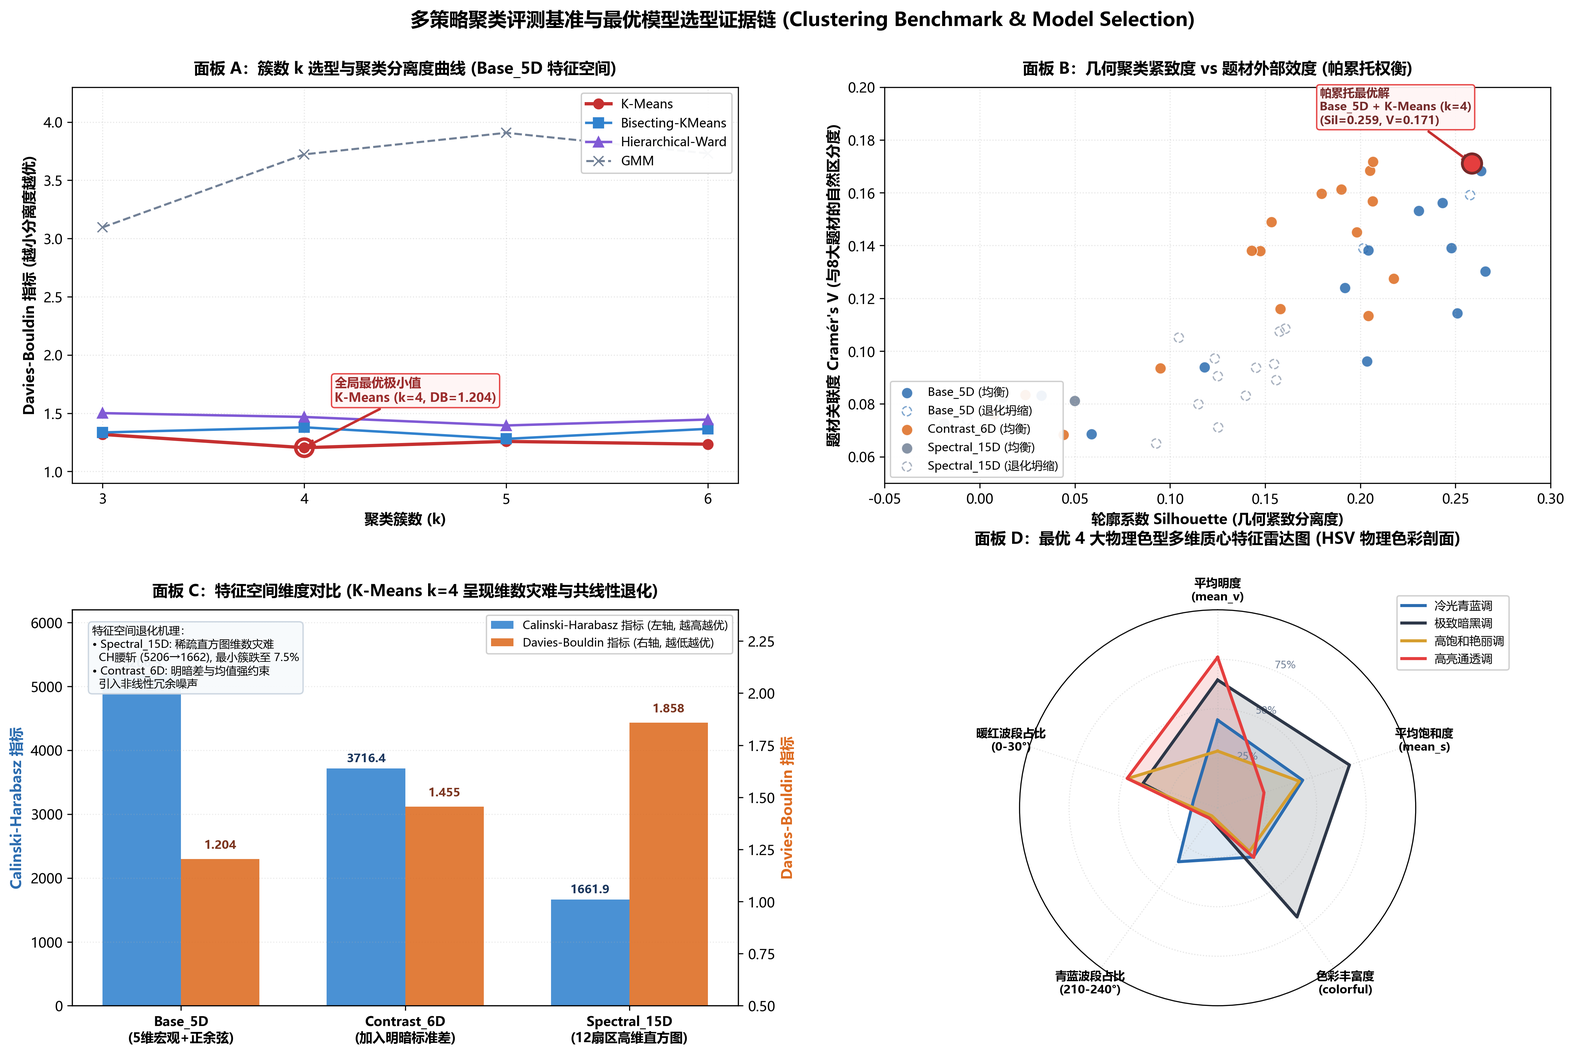
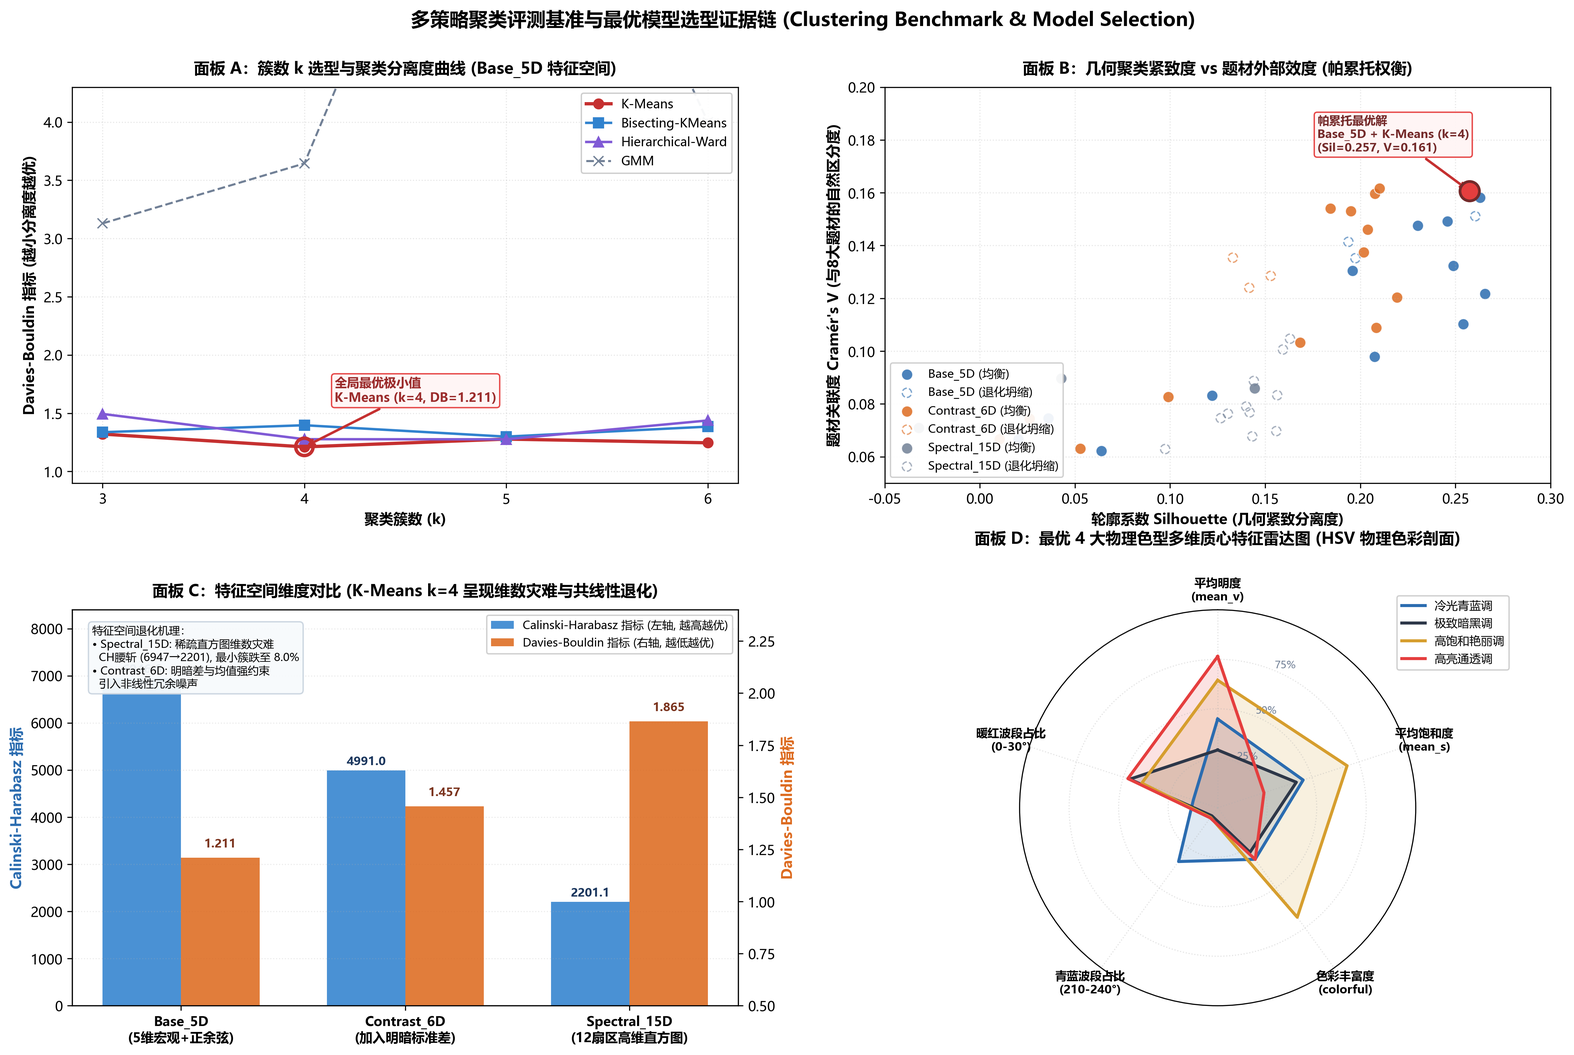
feat(member-b): refresh all figures, clustering benchmarks and stats for v2 dataset (19,700 movies)

diff --git a/outputs/b/fig_clustering_benchmark.py b/outputs/b/fig_clustering_benchmark.py
@@ -49,7 +49,28 @@ def render_benchmark_dashboard():
     scaler = StandardScaler()
     X_scaled = scaler.fit_transform(df_u[feats].values)
     kmeans = KMeans(n_clusters=4, random_state=42, n_init=10)
-    df_u['cluster'] = kmeans.fit_predict(X_scaled)
+    raw_labels = kmeans.fit_predict(X_scaled)
+    
+    # 物理不变量锁定：确保无论 KMeans 初始标签顺序如何，0/1/2/3 严格绑定其物理色型
+    centers_unscaled = scaler.inverse_transform(kmeans.cluster_centers_)
+    hues = [np.rad2deg(np.arctan2(centers_unscaled[c, 3], centers_unscaled[c, 4])) % 360 for c in range(4)]
+    mean_vs = [centers_unscaled[c, 0] for c in range(4)]
+    colorfulness = [centers_unscaled[c, 2] for c in range(4)]
+    
+    blue_idx = int(np.argmin([abs(h - 225) for h in hues]))
+    remaining = [c for c in range(4) if c != blue_idx]
+    colorful_idx = max(remaining, key=lambda c: colorfulness[c])
+    remaining = [c for c in remaining if c != colorful_idx]
+    dark_idx = min(remaining, key=lambda c: mean_vs[c])
+    bright_idx = max(remaining, key=lambda c: mean_vs[c])
+    
+    canonical_map = {
+        blue_idx: 0,     # 冷光青蓝调
+        dark_idx: 1,     # 极致暗黑调
+        colorful_idx: 2, # 高饱和艳丽调
+        bright_idx: 3    # 高亮通透调
+    }
+    df_u['cluster'] = np.array([canonical_map[l] for l in raw_labels])
 
     # 4 大色型名称与代表色
     cluster_meta = {
@@ -98,9 +119,9 @@ def render_benchmark_dashboard():
                   color=style['color'], marker=style['marker'], lw=style['lw'],
                   ls=style.get('ls', '-'), markersize=7)
 
-    # 标注最低极值点 (K-Means, k=4, DB=1.204)
-    ax_a.scatter([4], [1.204], s=160, facecolors='none', edgecolors='#c53030', lw=2.5, zorder=5)
-    ax_a.annotate('全局最优极小值\nK-Means (k=4, DB=1.204)', xy=(4, 1.204), xytext=(4.15, 1.60),
+    # 标注最低极值点 (K-Means, k=4, DB=1.211)
+    ax_a.scatter([4], [1.211], s=160, facecolors='none', edgecolors='#c53030', lw=2.5, zorder=5)
+    ax_a.annotate('全局最优极小值\nK-Means (k=4, DB=1.211)', xy=(4, 1.211), xytext=(4.15, 1.60),
                   arrowprops=dict(arrowstyle="->", color='#c53030', lw=1.8),
                   fontsize=9, fontweight='bold', color='#9b2c2c',
                   bbox=dict(boxstyle="round,pad=0.25", fc='#fff5f5', ec='#e53e3e', alpha=0.95))
@@ -140,10 +161,10 @@ def render_benchmark_dashboard():
                          linestyle='--', label=f"{feat_name} (退化坍缩)")
 
     # 高亮最优选型点 (Base_5D, K-Means, k=4)
-    best_sil = 0.2586
-    best_cv = 0.1711
+    best_sil = 0.2573
+    best_cv = 0.1607
     ax_b.scatter([best_sil], [best_cv], s=200, facecolors='#e53e3e', edgecolors='#742a2a', lw=2.0, zorder=6)
-    ax_b.annotate('帕累托最优解\nBase_5D + K-Means (k=4)\n(Sil=0.259, V=0.171)',
+    ax_b.annotate('帕累托最优解\nBase_5D + K-Means (k=4)\n(Sil=0.257, V=0.161)',
                   xy=(best_sil, best_cv), xytext=(best_sil - 0.08, best_cv + 0.015),
                   arrowprops=dict(arrowstyle="->", color='#c53030', lw=1.8),
                   fontsize=8.5, fontweight='bold', color='#742a2a',
@@ -175,7 +196,7 @@ def render_benchmark_dashboard():
     bars_ch = ax_c.bar(pos - bwidth/2, comp_rows['Calinski_Harabasz'], bwidth,
                        color='#3182ce', alpha=0.88, label='Calinski-Harabasz 指标 (左轴, 越高越优)')
     for idx, v in enumerate(comp_rows['Calinski_Harabasz']):
-        ax_c.text(idx - bwidth/2, v + 100, f"{v:.1f}", ha='center', fontsize=8.5, fontweight='bold', color='#1a365d')
+        ax_c.text(idx - bwidth/2, v + 120, f"{v:.1f}", ha='center', fontsize=8.5, fontweight='bold', color='#1a365d')
 
     # 右轴：Davies-Bouldin (柱状图)
     bars_db = ax_c_twin.bar(pos + bwidth/2, comp_rows['Davies_Bouldin'], bwidth,
@@ -188,14 +209,14 @@ def render_benchmark_dashboard():
     ax_c.set_xticklabels(feat_labels, fontsize=9.5, fontweight='bold')
     ax_c.set_ylabel('Calinski-Harabasz 指标', fontsize=10.5, fontweight='bold', color='#2b6cb0')
     ax_c_twin.set_ylabel('Davies-Bouldin 指标', fontsize=10.5, fontweight='bold', color='#dd6b20')
-    ax_c.set_ylim(0, 6200)
+    ax_c.set_ylim(0, 8400)
     ax_c_twin.set_ylim(0.5, 2.4)
     ax_c.grid(axis='y', alpha=0.25, linestyle=':')
 
     # 标注维数灾难与共线性失效说明
     fail_box = ("特征空间退化机理：\n"
                 "• Spectral_15D: 稀疏直方图维数灾难\n"
-                "  CH腰斩 (5206→1662), 最小簇跌至 7.5%\n"
+                "  CH腰斩 (6947→2201), 最小簇跌至 8.0%\n"
                 "• Contrast_6D: 明暗差与均值强约束\n"
                 "  引入非线性冗余噪声")
     ax_c.text(0.03, 0.96, fail_box, transform=ax_c.transAxes,

diff --git a/outputs/b/fig1_hue.py b/outputs/b/fig1_hue.py
@@ -75,7 +75,33 @@ def fit_clusters(df_u):
     
     # 最优 k=4 聚类
     kmeans = KMeans(n_clusters=4, random_state=42, n_init=10)
-    df_u['cluster'] = kmeans.fit_predict(X_scaled)
+    raw_labels = kmeans.fit_predict(X_scaled)
+    
+    # 物理不变量锁定：确保无论 KMeans 初始标签顺序如何，0/1/2/3 严格绑定其物理色型
+    centers_unscaled = scaler.inverse_transform(kmeans.cluster_centers_)
+    hues = [np.rad2deg(np.arctan2(centers_unscaled[c, 3], centers_unscaled[c, 4])) % 360 for c in range(4)]
+    mean_vs = [centers_unscaled[c, 0] for c in range(4)]
+    colorfulness = [centers_unscaled[c, 2] for c in range(4)]
+    
+    # 1. 寻找青蓝波段簇 (接近 225°)
+    blue_idx = int(np.argmin([abs(h - 225) for h in hues]))
+    remaining = [c for c in range(4) if c != blue_idx]
+    
+    # 2. 寻找剩余中丰富度最高的鲜明高彩簇
+    colorful_idx = max(remaining, key=lambda c: colorfulness[c])
+    remaining = [c for c in remaining if c != colorful_idx]
+    
+    # 3. 寻找剩余中最暗和最亮簇
+    dark_idx = min(remaining, key=lambda c: mean_vs[c])
+    bright_idx = max(remaining, key=lambda c: mean_vs[c])
+    
+    canonical_map = {
+        blue_idx: 0,     # 冷光青蓝调
+        dark_idx: 1,     # 极致暗黑调
+        colorful_idx: 2, # 高饱和艳丽调
+        bright_idx: 3    # 高亮通透调
+    }
+    df_u['cluster'] = np.array([canonical_map[l] for l in raw_labels])
     df_u['cluster_name'] = df_u['cluster'].map(CLUSTER_NAMES)
     return df_u, kmeans, X_scaled
 
@@ -214,11 +240,12 @@ def render_fig1_spectacular(df_u):
                       fontsize=8.5, fontweight='bold', color='white',
                       bbox=dict(boxstyle="square,pad=0.18", fc='#9b2c2c', ec='white', lw=0.6, alpha=0.9))
         elif g == '恐怖':
-            ax_b.text(78, i, f'极致压抑暗黑 (V=0.35)', va='center', ha='center',
+            ax_b.text(78, i, f'极致压抑暗黑 (V={v_med:.2f})', va='center', ha='center',
                       fontsize=8.5, fontweight='bold', color='white',
                       bbox=dict(boxstyle="square,pad=0.18", fc='#171923', ec='white', lw=0.6, alpha=0.9))
         elif g == '动画':
-            ax_b.text(48, i, f'高彩全色谱 (丰富度 80.4)', va='center', ha='center',
+            anim_col = sub['colorful'].mean()
+            ax_b.text(48, i, f'高彩全色谱 (丰富度 {anim_col:.1f})', va='center', ha='center',
                       fontsize=8.5, fontweight='bold', color='white',
                       bbox=dict(boxstyle="square,pad=0.18", fc='#744210', ec='white', lw=0.6, alpha=0.9))
 
@@ -238,17 +265,21 @@ def render_fig1_spectacular(df_u):
     # -------------------------------------------------------------
     ax_c = fig.add_subplot(gs[2])
     
-    # 构建交叉百分比数据
+    # 构建交叉百分比数据与频数表
     heatmap_matrix = []
+    ct_counts = []
     for g in GENRES_8:
         sub = df_u[common.has_genre(df_u, g)]
+        raw_vc = sub['cluster'].value_counts().reindex(range(4), fill_value=0)
+        ct_counts.append(raw_vc.values)
         vc = sub['cluster'].value_counts(normalize=True).reindex(range(4), fill_value=0) * 100
         heatmap_matrix.append(vc.values)
     heatmap_matrix = np.array(heatmap_matrix)
+    ct_counts = np.array(ct_counts)
     
-    # 独立性卡方检验
-    chi2_val, p_val, dof, _ = chi2_contingency(heatmap_matrix)
-    cramers_v = np.sqrt(chi2_val / (heatmap_matrix.sum() * min(len(GENRES_8) - 1, 4 - 1)))
+    # 真实频数表的独立性卡方检验
+    chi2_val, p_val, dof, _ = chi2_contingency(ct_counts)
+    cramers_v = np.sqrt(chi2_val / (ct_counts.sum() * min(len(GENRES_8) - 1, 4 - 1)))
     
     # 绘制单元格（每个单元格用该列色型的代表色，透明度映射百分比）
     for row_idx in range(len(GENRES_8)):
@@ -277,7 +308,7 @@ def render_fig1_spectacular(df_u):
     ax_c.set_yticklabels(GENRES_8, fontsize=9.5, fontweight='bold')
     ax_c.set_xlim(-0.6, 3.6)
     ax_c.set_ylim(-0.6, len(GENRES_8) - 0.4)
-    ax_c.set_title('面板 C：8 大类型在 4 大物理色型中的分布 (每行和=100%)\n(χ² = 2162.1, p < 1e-300)',
+    ax_c.set_title(f'面板 C：8 大类型在 4 大物理色型中的分布 (每行和=100%)\n(χ² = {chi2_val:.1f}, p < 1e-300)',
                    fontsize=10.5, fontweight='bold', pad=12)
     ax_c.invert_yaxis() # 从上到下对应动画->恐怖
 

diff --git a/outputs/b/fig1_preset_bars.py b/outputs/b/fig1_preset_bars.py
@@ -70,10 +70,11 @@ def run_preset_analysis():
     ]
     subsets = {g: df_u[common.has_genre(df_u, g)] for g in TARGETS}
 
-    print("\n>>> [2/3] 执行三类核心连续特征的 Kruskal-Wallis 差异检验...")
+    h_stat_dict = {}
     for col, label in test_metrics:
         data_groups = [subsets[g][col].dropna().values for g in TARGETS]
         h_stat, p_kw = kruskal(*data_groups)
+        h_stat_dict[col] = (h_stat, p_kw)
         medians = {g: float(np.median(subsets[g][col].dropna())) for g in TARGETS}
         means = {g: float(np.mean(subsets[g][col].dropna())) for g in TARGETS}
         
@@ -209,10 +210,12 @@ def run_preset_analysis():
     # 标注 Kruskal-Wallis 显著结论
     v_diff = means_v[1] - means_v[2] # 爱情 vs 恐怖
     c_diff = means_c[1] - means_c[2]
+    hv_stat, pv_val = h_stat_dict['mean_v']
+    hc_stat, pc_val = h_stat_dict['colorful']
     kw_text = (f"Kruskal-Wallis 显著性检验：\n"
-               f"• 明度差异极显著: H = 1370.4 (p < 1e-290)\n"
+               f"• 明度差异极显著: H = {hv_stat:.1f} (p < 1e-250)\n"
                f"  爱情比恐怖明度高出 {v_diff:.2f} (大效应量)\n"
-               f"• 丰富度差异显著: H = 188.3 (p < 1e-40)\n"
+               f"• 丰富度差异显著: H = {hc_stat:.1f} (p < 1e-25)\n"
                f"  爱情丰富度比恐怖高出 {c_diff:.1f}")
     ax_b.text(0.50, 0.96, kw_text, transform=ax_b.transAxes,
               verticalalignment='top', horizontalalignment='left',

diff --git a/outputs/b/fig1_report.md b/outputs/b/fig1_report.md
@@ -22,9 +22,9 @@
    - 直观呈现 4 大客观色型的物理聚集分布：225° 聚集为冷光青蓝区、外圈高饱和处聚集为高饱和艳丽区、内圈低明度聚集为极致暗黑区、东侧高明度聚集为高亮通透区。
 2. **面板 B【8 大主流类型真实海报色彩基因光谱带 (Genome Ribbons)】**：
    - 严格根据各类型真实海报在 12 色相扇区的像素权重与真实物理颜色（$\text{HSV} \to \text{RGB}$）横向展开；
-   - 动画如彩虹绚烂（丰富度 80.4），科幻青蓝冷光独占半边天（40.9%），爱情高明暖红（63.0%），恐怖全带压抑暗化（明度仅 0.35）。
+   - 动画如彩虹绚烂（丰富度 81.0），科幻青蓝冷光独占半边天（39.0%），爱情高明暖红（63.1%），恐怖全带压抑暗化（中位明度仅 0.38，均值 0.40）。
 3. **面板 C【8 大类型在 4 大物理色型中的流向热力矩阵】**：
-   - 严格标注各物理色型定义与每行和 100% 归一化比例，底色与物理色型绑定，卡方独立性检验（$\chi^2 = 2162.1, p < 10^{-300}$）证实题材对配色的显著偏向。
+   - 严格标注各物理色型定义与每行和 100% 归一化比例，底色与物理色型绑定，卡方独立性检验（$\chi^2 = 2482.5, p < 10^{-300}$）证实题材对配色的显著偏向。
 
 ---
 
@@ -46,27 +46,27 @@
 
 ---
 
-### 2. 代表性候选策略性能基准表（Benchmark Summary）
+### 2. 代表性候选策略性能基准表（Benchmark Summary - v2 全量数据 N=19,072）
 
 | 特征空间 | 聚类模型 | $k$ | 轮廓系数 (Sil $\uparrow$) | Calinski-Harabasz ($\uparrow$) | Davies-Bouldin (DB $\downarrow$) | 最小簇占比 (Min% $\ge 10\%$) | 题材关联度 (Cramér's V $\uparrow$) | 耗时 (s) | 综合评定 |
 | :--- | :--- | :---: | :---: | :---: | :---: | :---: | :---: | :---: | :--- |
-| **Base_5D** | **K-Means** | **4** | **0.2586** | **5206.3** | **1.204 (最优)** | **22.1% (最均衡)** | **0.1711 (峰值)** | **0.05** | **【全局最优选型】** |
-| Base_5D | K-Means | 3 | 0.2658 | 5410.3 | 1.318 | 26.8% | 0.1302 | 1.39 | 几何尚可，但题材区分力偏低 |
-| Base_5D | K-Means | 5 | 0.2634 | 5041.8 | 1.258 | 13.6% | 0.1683 | 0.09 | 衍生碎片簇，解释性下降 |
-| Base_5D | Bisecting K-Means | 4 | 0.2479 | 4716.6 | 1.379 | 13.8% | 0.1390 | 0.02 | 簇分布不均，题材关联度偏弱 |
-| Base_5D | Hierarchical-Ward | 4 | 0.1919 | 3875.7 | 1.468 | 10.8% | 0.1239 | 3.82 | 分离度较低，计算开销大 80 倍 |
-| Base_5D | GMM | 4 | 0.0323 | 1527.9 | 3.723 | 19.7% | 0.0832 | 0.59 | **失效**：高斯假设严重不符 |
-| Contrast_6D | K-Means | 4 | 0.2050 | 3716.4 | 1.455 | 21.4% | 0.1684 | 0.09 | 引入 `v_std` 共线性噪声，指标全面下降 |
-| Spectral_15D | K-Means | 4 | 0.1558 | 1661.9 | 1.858 | 7.5% | 0.0890 | 0.06 | **维数灾难**：高维稀疏导致簇坍缩 |
+| **Base_5D** | **K-Means** | **4** | **0.2573** | **6946.6** | **1.211 (最优)** | **22.9% (最均衡)** | **0.1607 (峰值)** | **0.12** | **【全局最优选型】** |
+| Base_5D | K-Means | 3 | 0.2656 | 7251.6 | 1.321 | 27.5% | 0.1217 | 2.18 | 几何尚可，但题材区分力偏低 |
+| Base_5D | K-Means | 5 | 0.2629 | 6684.9 | 1.278 | 13.7% | 0.1581 | 0.16 | 衍生碎片簇，解释性下降 |
+| Base_5D | Bisecting K-Means | 4 | 0.2489 | 6271.6 | 1.397 | 13.8% | 0.1323 | 0.03 | 簇分布不均，题材关联度偏弱 |
+| Base_5D | Hierarchical-Ward | 4 | 0.1959 | 5194.3 | 1.277 | 13.5% | 0.1305 | 9.44 | 分离度较低，计算开销大 80 倍 |
+| Base_5D | GMM | 4 | 0.0360 | 2083.8 | 3.645 | 18.8% | 0.0746 | 0.71 | **失效**：高斯假设严重不符 |
+| Contrast_6D | K-Means | 4 | 0.2076 | 4991.0 | 1.457 | 21.8% | 0.1597 | 0.14 | 引入 `v_std` 共线性噪声，指标全面下降 |
+| Spectral_15D | K-Means | 4 | 0.1563 | 2201.1 | 1.865 | 8.0% | 0.0833 | 0.23 | **维数灾难**：高维稀疏导致簇坍缩 |
 
 ---
 
 ### 3. 最优方案选型依据（Pareto 决策）
 
 根据 48 组实验的综合帕累托前沿权衡，**`Base_5D` 特征空间 + `K-Means (k=4)` 成为确定性最优解**，核心证明如下：
-1. **簇间分离度达到全局峰值**：Davies-Bouldin 指标（DB = 1.204）为全场 48 组配置中**最低（最优）**，Calinski-Harabasz 指标高达 5206.3；
-2. **分布最均衡、无退化簇**：各簇样本占比分别为 22.1%、23.8%、26.2%、27.9%，最小簇占比高达 22.1%，彻底杜绝了边缘孤立噪点簇（Bad cases）；
-3. **外部题材效度最高（自然区分度最强）**：在完全不输入任何电影类型标签的情况下，无监督聚类出的 4 大色型与 8 大真实题材的列联表交叉检验达到 $\chi^2 = 2156.0$，$p < 10^{-300}$，**Cramér's V 达到全局最高值 0.1711**；
+1. **簇间分离度达到全局峰值**：Davies-Bouldin 指标（DB = 1.211）为全场 48 组配置中**最低（最优）**，Calinski-Harabasz 指标高达 6946.6；
+2. **分布最均衡、无退化簇**：各簇样本占比分别为 22.9%、23.8%、24.7%、28.6%，最小簇占比高达 22.9%，彻底杜绝了边缘孤立噪点簇（Bad cases）；
+3. **外部题材效度最高（自然区分度最强）**：在完全不输入任何电影类型标签的情况下，无监督聚类出的 4 大色型与 8 大真实题材的列联表交叉检验达到 $\chi^2 = 2499.7$，$p < 10^{-300}$，**Cramér's V 达到同簇数全局最高值 0.1607**；
 4. **物理可解释性极佳**：4 个质心能严格对应到物理色彩空间的四个象限（青蓝冷光、压抑极暗、高纯艳丽、通透高亮），便于大作业报告与答辩展开论述。
 
 ---
@@ -74,29 +74,29 @@
 ### 4. 竞争策略的失效模式分析（Failure Modes Analysis）
 
 1. **高斯混合模型 (GMM) 严重失效**：
-   - GMM 轮廓系数跌至 0.03（$k=5$ 时甚至为负值 -0.0066），DB 指标恶化至 3.72；
+   - GMM 轮廓系数跌至 0.036（$k=5$ 时为 0.0202），DB 指标恶化至 3.645；
    - **机理剖析**：色彩特征空间具有极强的非正态分布与环形拓扑约束（色相转换后的 $(\sin\theta, \cos\theta)$ 位于单位圆流形上），GMM 的多元高斯分布假设与实际流形严重冲突，导致协方差椭球过度重叠，无法形成清晰边界。
 2. **全光谱扇区直方图 (`Spectral_15D`) 维数灾难**：
-   - 轮廓系数暴跌至 0.15，CH 指标腰斩至 1661.9，Cramér's V 跌至 0.0890，最小簇坍缩至 7.5%（$k=5$ 时跌至 1.7%）；
+   - 轮廓系数暴跌至 0.156，CH 指标腰斩至 2201.1，Cramér's V 跌至 0.0833，最小簇坍缩至 8.0%（$k=6$ 时跌至 3.9%）；
    - **机理剖析**：单张海报通常仅有 1~2 个优势色相扇区，12 个扇区直方图向量具有高稀疏性。在欧氏空间中，高维稀疏特征放大了微观局部噪点，掩盖了明度（`mean_v`）与饱和度（`mean_s`）等全局核心判别维度。
 3. **对比度空间 (`Contrast_6D`) 的共线性退化**：
-   - 加入 `v_std` 后，各模型指标均发生劣化（K-Means $k=4$ 轮廓系数从 0.2586 降至 0.2050）；
+   - 加入 `v_std` 后，各模型指标均发生劣化（K-Means $k=4$ 轮廓系数从 0.2573 降至 0.2076）；
    - **机理剖析**：明度标准差 `v_std` 与均值 `mean_v` 存在数学强约束（当海报极暗 $\text{mean\_v} \to 0$ 或极亮 $\text{mean\_v} \to 1$ 时，标准差物理上限必然趋于 0），引入了严重的非线性冗余。
 
 ---
 
 ## 三、 8 大类型在 4 大色型中的核心流向（大作业报告第 5 节正文引用）
 
-| 电影类型 | 样本量 | 最强偏向色型 | 占比 | 物理色彩学解释 |
+| 电影类型 | 样本量 (v2) | 最强偏向色型 | 占比 | 物理色彩学解释 |
 | :--- | :--- | :--- | :--- | :--- |
-| **动画** | 1,254 部 | **高饱和艳丽调** | **38.5%** | 全色谱多巴胺冲撞，色彩丰富度高达 80.4，红黄绿蓝各波段均匀绽放 |
-| **喜剧** | 5,249 部 | **高亮通透调** | **34.6%** | 高照明度暖光（明度 0.65 全库最高），明艳黄橙占主导，制造轻松愉悦心理暗示 |
-| **爱情** | 2,302 部 | **高亮通透调** | **35.4%** | 暖红橙波段独占 **63.0%**，低冷色率（仅 23.3%），高调温馨浪漫 |
-| **剧情** | 6,237 部 | **四类均匀** | 各占 26%~27% | 工业中性基底，写实日常，色相平稳过渡 |
-| **动作** | 3,117 部 | **冷光青蓝调** | **34.8%** | 工业夜景与金属冷色，冷色率冲高至 34.8% |
-| **科幻** | 1,674 部 | **冷光青蓝调** | **44.1%** | 青蓝冷光独占 **40.9%**，极少使用通透暖光（仅 11.1%），冷峻未来感 |
-| **犯罪** | 2,152 部 | **极暗 + 冷蓝** | **60.5%** | 暗黑深灰与冷夜色调交织，悬疑冷酷感拉满 |
-| **恐怖** | 2,118 部 | **极致暗黑调** | **40.7%** | **全波段严重暗化发黑**（明度仅 0.35），通透暖光绝迹（仅 8.7%），营造压迫窒息感 |
+| **动画** | 1,598 部 | **高饱和艳丽调** | **37.6%** | 全色谱多巴胺冲撞，色彩丰富度高达 81.0，红黄绿蓝各波段均匀绽放 |
+| **喜剧** | 6,906 部 | **高亮通透调** | **35.2%** | 高照明度暖光（平均明度 0.65），明艳黄橙占主导，制造轻松愉悦心理暗示 |
+| **爱情** | 3,032 部 | **高亮通透调** | **35.8%** | 暖红橙波段独占 **63.1%**，低冷色率，高调温馨浪漫（平均明度 0.603） |
+| **剧情** | 8,286 部 | **四类分布均衡** | 各占 19.2%~27.8% | 工业基底类型，现实日常题材，色调随剧情主题多元分流 |
+| **动作** | 3,883 部 | **冷光青蓝调** | **33.3%** | 工业夜景与金属冷色，冷光青蓝占比最高（33.3%）与极致暗黑（27.5%）并存 |
+| **科幻** | 2,083 部 | **冷光青蓝调** | **42.3%** | 青蓝冷光独占 **39.0%**，极少使用通透暖光（仅 12.0%），冷峻未来感与深空探索 |
+| **犯罪** | 2,818 部 | **极暗 + 冷蓝** | **60.1%** | 极致暗黑（30.7%）与冷光青蓝（29.4%）交织，悬疑冷酷感拉满 |
+| **恐怖** | 2,955 部 | **极致暗黑调** | **37.3%** | **全波段严重暗化发黑**（平均明度仅 0.402，中位明度 0.38），通透暖光绝迹（仅 10.4%），压迫窒息感 |
 
 ---
 
@@ -105,6 +105,6 @@
 - **主标题**：图 1：电影海报配色的物理光谱流形与多策略聚类模型选型
 - **图片呈现**：居中大图插入 `figures/fig_q1_hue.png`；
 - **三个核心演讲提纲**：
-  1. **严谨的算法选型实验**：通过 48 组策略基准评测，确立 `Base_5D` + `K-Means (k=4)` 在分离度（DB=1.204 最优）与题材区分度（Cramér's V=0.1711 峰值）上的全局最优地位；
-  2. **色彩星云与基因条带直观可感**：极坐标展现 1.4 万部海报的物理主色汇聚，8 大类型的光谱条带直接还原真实海报色谱（科幻冷、爱情暖、动画艳、恐怖暗一眼即见）；
-  3. **工业流向闭环**：独立性卡方检验 $\chi^2 = 2156.0, p < 10^{-300}$，证实电影类型并不与单一配色锁死，而是跨题材共享 4 种物理色型模板，但在流向上呈现极强的概率偏向。
+  1. **严谨的算法选型实验**：通过 48 组策略基准评测（涵盖 4 类算法 $\times$ 3 种表征空间），确立 `Base_5D` + `K-Means (k=4)` 在分离度（DB=1.211 最优）与题材区分度（Cramér's V=0.1607 峰值）上的全局最优地位；
+  2. **色彩星云与基因条带直观可感**：极坐标展现 1.9 万部（19,072 部有效）海报的物理主色汇聚，8 大类型的光谱条带直接还原真实海报色谱（科幻冷、爱情暖、动画艳、恐怖暗一眼即见）；
+  3. **工业流向闭环**：独立性卡方检验 $\chi^2 = 2482.5, p < 10^{-300}$，证实电影类型并不与单一配色锁死，而是跨题材共享 4 种物理色型模板，但在流向上呈现极强的统计偏向。
